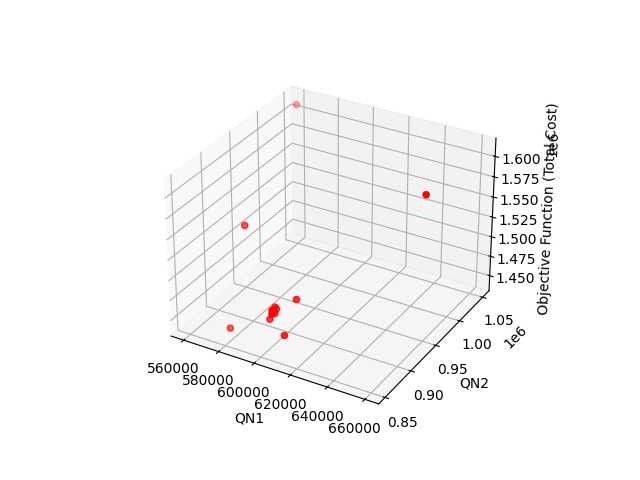
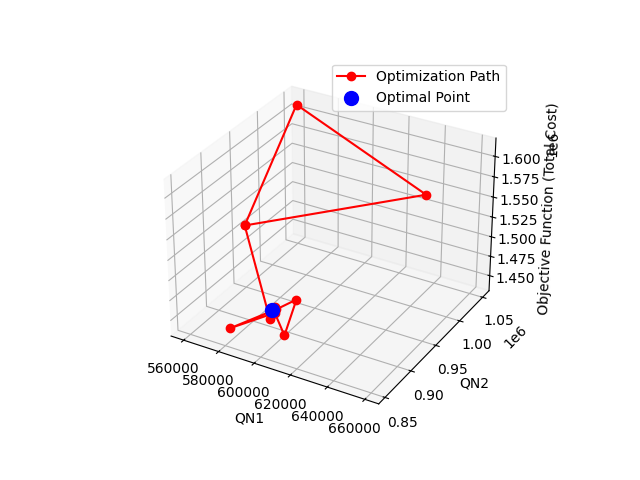
plot version 2

diff --git a/optimize_cobyla_scaled.py b/optimize_cobyla_scaled.py
@@ -153,6 +153,7 @@ simulate(opt_scaled, print_temperature=True)
 
 # Close log file
 log_file.close()
+
 # Plot the results (3D plot of QN1, QN2, and objective function)
 fig = plt.figure()
 ax = fig.add_subplot(111, projection='3d')
@@ -162,11 +163,23 @@ QN1_values = [x[0] for x in x_values]
 QN2_values = [x[1] for x in x_values]
 QC_values = [x[2] for x in x_values]
 
-# Create the 3D scatter plot
-ax.scatter(QN1_values, QN2_values, objective_values, c='r', marker='o')
+# Plot the trajectory of optimization steps
+ax.plot(QN1_values, QN2_values, objective_values, color='red', linestyle='-', marker='o', label='Optimization Path')
+
+# Plot the optimal point in blue
+optimal_x = opt[0]
+optimal_y = opt[1]
+optimal_z = cost_min
+
+ax.scatter(optimal_x, optimal_y, optimal_z, color='blue', s=100, label='Optimal Point')
+
+# Set labels
 ax.set_xlabel('QN1')
 ax.set_ylabel('QN2')
 ax.set_zlabel('Objective Function (Total Cost)')
+
+# Add legend
+ax.legend()
 
 # Save the figure with the script name
 figure_name = script_name + '_3d_plot.png'
